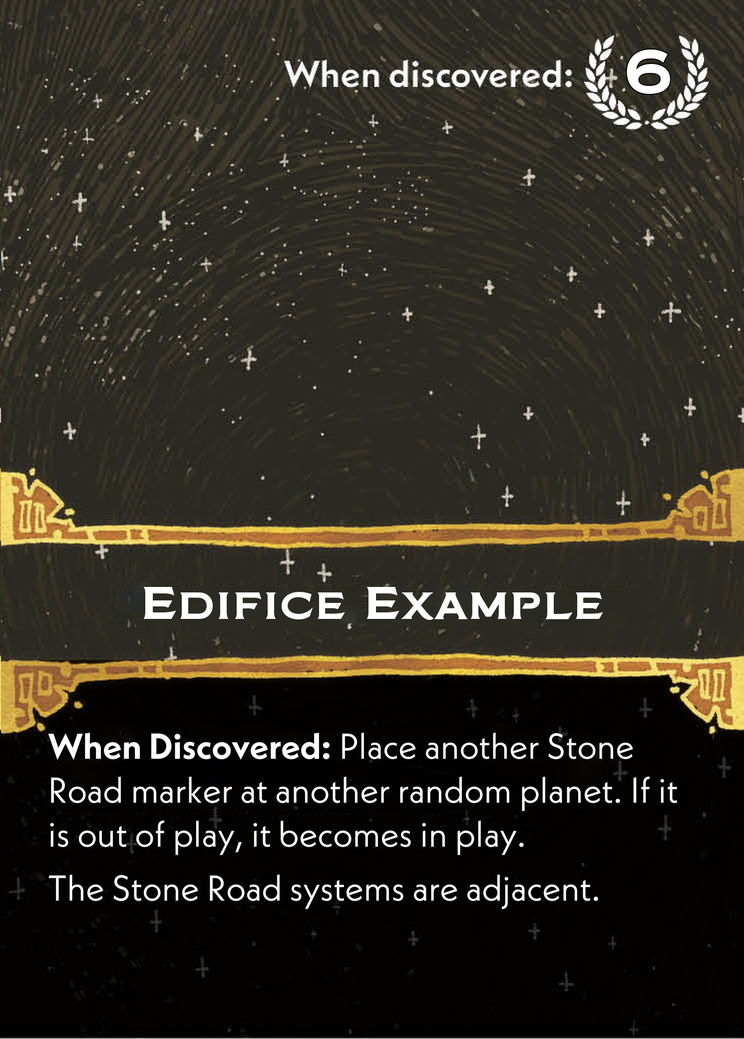
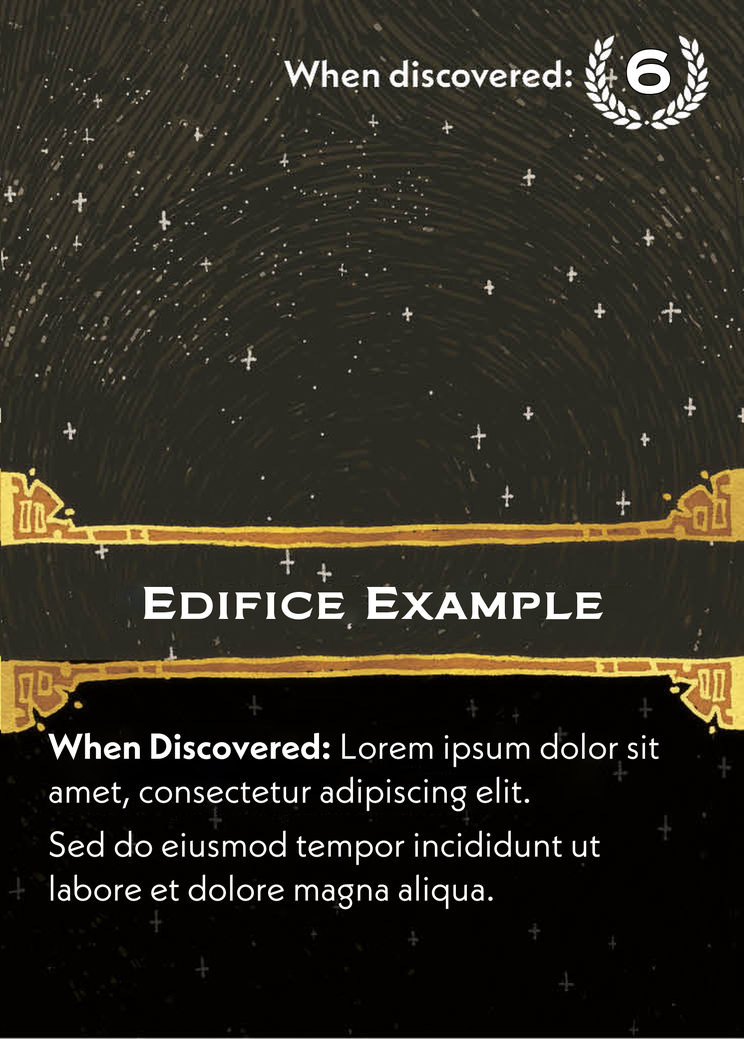
added edifice to site

Changed region(s): [[0.0618, 0.7084, 0.9274, 0.8932]]

diff --git a/app.py b/app.py
@@ -33,7 +33,7 @@ TEMPLATE_MAP = {
         "module": "leadersFormatted",
         "path": Path("scripts") / "leadersFormatted.py",
     },
-    "Guild": {
+    "Guild / Artifact": {
         "script": "batchGuildCards.py",
         "module": "guildCardsFormatted",
         "path": Path("scripts") / "guildCardsFormatted.py",
@@ -42,6 +42,11 @@ TEMPLATE_MAP = {
         "script": "batchLoreCards.py",
         "module": "loreCardsFormatted",
         "path": Path("scripts") / "loreCardsFormatted.py",
+    },
+    "Eddifice": {
+        "script": "batchLoreCards.py",
+        "module": "eddificeFormatted",
+        "path": Path("scripts") / "eddificeFormatted.py",
     },
     "Vox": {
         "script": "batchVoxCards.py",
@@ -157,6 +162,7 @@ with st.container():
             "Leader": "leaderImages",
             "Guild": "guildImages",
             "Lore": "loreImages",
+            "Eddifice": "loreImages",
             "Vox": "voxImages",
         }
         dest_dir = Path("cardAssets") / UPLOAD_MAP.get(card_type, "captured")

diff --git a/scripts/eddificeFormatted.py b/scripts/eddificeFormatted.py
@@ -1,0 +1,18 @@
+lore_cards = [
+    {
+        "name": "eddifice_example",
+        "title": "Edifice Example",
+        "title_font_size": 22,
+        "body": (
+            "**When Discovered:** Lorem ipsum dolor sit amet, consectetur adipiscing elit." \
+            "\n\n" \
+            "Sed do eiusmod tempor incididunt ut labore et dolore magna aliqua."
+        ),
+        "eddifice_top_right": "6",
+        "body_font_size": 18,
+        "variant": "eddifice",
+        "render_scale": 2,
+        "zoom": 1.0,
+        "boundary_shift": 0.0,
+    },
+]

diff --git a/scripts/loreCardsFormatted.py b/scripts/loreCardsFormatted.py
@@ -275,9 +275,9 @@ lore_cards.append({
     "title": "Edifice Example",
     "title_font_size": 22,
     "body": (
-        "**When Discovered:** Place another Stone Road marker at another random planet. If it is out of play, it becomes in play.\n"
-        "\n"
-        "The Stone Road systems are adjacent."
+        "**When Discovered:** Lorem ipsum dolor sit amet, consectetur adipiscing elit."
+        "\n\n"
+        "Sed do eiusmod tempor incididunt ut labore et dolore magna aliqua."
     ),
     "eddifice_top_right": "6",
     "body_font_size": 18,
